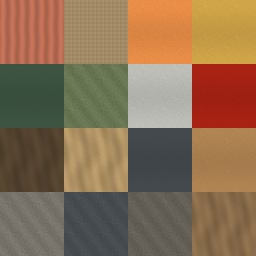
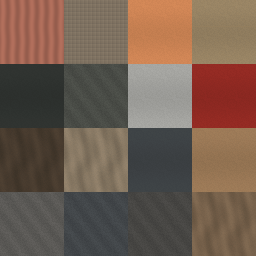
Own plant atlas in dark, muted tones; the picture tool reads and writes the game's own art by repository path

diff --git a/Tools/Art/village/retexture.py b/Tools/Art/village/retexture.py
@@ -6,6 +6,9 @@ The recipe (in the repository) says how each surface looks: size, grade, what ha
 a normal map is made from the brightness. The sources file (private, never in the repository) says where the
 licensed or generated source picture of each surface lies. Outputs are private as well.
 
+The game's own art is the exception: a surface with "ownSource" and "ownOutput" (paths from the repository's root)
+reads a picture of the repository and writes one, here the plants' colour atlas.
+
 Grade of a surface, applied in this order:
   hues        list of {"from", "to" (degrees), "saturation", "gain", "tint", "toward" [r,g,b], "amount"}: only pixels
               whose hue lies in the range (soft edges of 12 degrees, weighted by how colourful the pixel is)
@@ -101,14 +104,18 @@ def main():
     recipe = json.loads(pathlib.Path(sys.argv[1]).read_text(encoding="utf-8"))
     sources = json.loads(pathlib.Path(sys.argv[2]).read_text(encoding="utf-8"))
     out = pathlib.Path(sys.argv[3])
+    repository = pathlib.Path(sys.argv[1]).resolve().parents[3]
     wanted = set(sys.argv[4:])
     out.mkdir(parents=True, exist_ok=True)
     for spec in recipe["surfaces"]:
         if wanted and spec["id"] not in wanted:
             continue
-        if spec["source"] not in sources:
+        if "ownSource" in spec:
+            image = Image.open(repository / spec["ownSource"])
+        elif spec["source"] in sources:
+            image = Image.open(sources[spec["source"]])
+        else:
             sys.exit("no private source for " + spec["source"])
-        image = Image.open(sources[spec["source"]])
         alpha = image.getchannel("A") if image.mode in ("RGBA", "LA") else None
         image = image.convert("RGB")
         size = spec.get("size", 1024)
@@ -127,7 +134,7 @@ def main():
         result = Image.fromarray((to_srgb(rgb) * 255.0 + 0.5).astype(np.uint8), "RGB")
         if alpha is not None and spec.get("keepAlpha", True):
             result.putalpha(alpha)
-        result.save(out / (spec["id"] + ".png"))
+        result.save(repository / spec["ownOutput"] if "ownOutput" in spec else out / (spec["id"] + ".png"))
         if spec.get("normalFromLuma", 0) > 0:
             normal = normal_from_luma(rgb, spec["normalFromLuma"])
             Image.fromarray((normal * 255.0 + 0.5).astype(np.uint8), "RGB").save(out / (spec["id"] + "_normal.png"))
